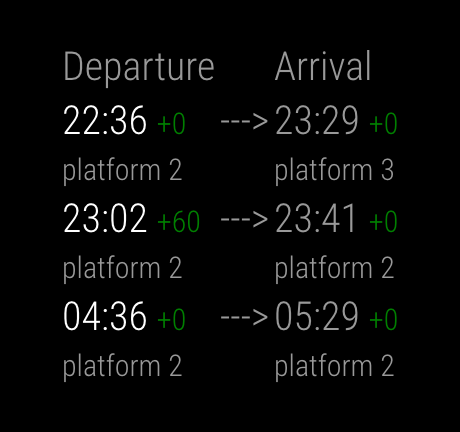
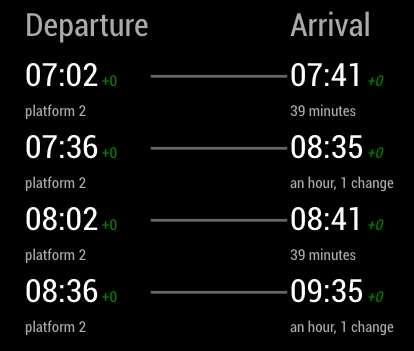
Added French language

diff --git a/MMM-NMBS-Connection.js b/MMM-NMBS-Connection.js
@@ -59,8 +59,21 @@ Module.register("MMM-NMBS-Connection", {
 			.catch(error => Log.error("Fetch Error =\n", error));
 	},
 	processConnections: function (data) {
-		const wrapper = document.createElement("div");
-		let connectionList = `<table class="normal small light"><thead><tr><td>${this.translate("DEPARTURE")}</td><td></td><td>${this.translate("ARRIVAL")}</td></tr></thead><tbody>`;
+		let table = document.createElement("table");
+		let tHead = document.createElement("thead");
+		let headerRow = document.createElement("tr");
+		let headerDeparture = document.createElement("td");
+		headerDeparture.innerHTML = this.translate("DEPARTURE");
+		let headerLine = document.createElement("td");
+		let headerArrival = document.createElement("td");
+		headerArrival.innerHTML = this.translate("ARRIVAL");
+
+		headerRow.appendChild(headerDeparture);
+		headerRow.appendChild(headerLine);
+		headerRow.appendChild(headerArrival);
+		tHead.appendChild(headerRow);
+		table.appendChild(tHead);
+
 		let connections = data.connection;
 
 		if (!Number.isFinite(this.config.results) || this.config.results > 6) {
@@ -69,14 +82,58 @@ Module.register("MMM-NMBS-Connection", {
 
 		for (let i = 0; i < this.config.results; i++) {
 			let connection = connections[i];
-			connectionList+= `<tr><td class="title bright">${moment.unix(connection.departure.time).format("HH:mm")} <span class=\"xsmall ontime\">+${connection.departure.delay}</span></td><td> ---> </td><td>${moment.unix(connection.arrival.time).format("HH:mm")} <span class=\"xsmall ontime\">+${connection.arrival.delay}</span> </td></tr>`
-			connectionList+= `<tr><td class="xsmall">${this.translate("PLATFORM")} ${connection.departure.platform} </td><td></td><td class="xsmall">${this.translate("PLATFORM")} ${connection.arrival.platform}</td></tr>`
+			Log.info(connection);
+			let connectionRow = document.createElement("tr");
+
+			let departureTime = document.createElement("td");
+			departureTime.className = "title bright";
+			departureTime.innerHTML = moment.unix(connection.departure.time).format("HH:mm");
+			let departureDelay = document.createElement("span");
+			departureDelay.className = "xsmall ontime";
+			departureDelay.innerHTML = ` +${moment.utc(connection.departure.delay *1000).format("m")}`;
+			departureTime.appendChild(departureDelay);
+			connectionRow.appendChild(departureTime);
+
+			let line = document.createElement("td");
+			line.className = "dimmed";
+			let trainIcon = document.createElement("span");
+			trainIcon.className = "fas fa-train";
+			line.innerHTML = "&boxh;&boxh;&boxh;&boxh;&boxh;&boxh; ";
+			line.appendChild(trainIcon);
+			connectionRow.appendChild(line);
+
+			let arrivalTime = document.createElement("td");
+			arrivalTime.className = "title bright";
+			arrivalTime.innerHTML = moment.unix(connection.arrival.time).format("HH:mm");
+			let arrivalDelay = document.createElement("i");
+			arrivalDelay.className = "xsmall ontime";
+			arrivalDelay.innerHTML = ` +${moment.utc(connection.arrival.delay *1000).format("m")}`;
+			arrivalTime.appendChild(arrivalDelay);
+			connectionRow.appendChild(arrivalTime);
+
+			let infoRow = document.createElement("tr");
+			let departurePlatform = document.createElement("td");
+			departurePlatform.className = "xsmall";
+			departurePlatform.innerHTML = `${this.translate("PLATFORM")} ${connection.departure.platform}`;
+			infoRow.appendChild(departurePlatform);
+
+			let emptyLine = document.createElement("td");
+			infoRow.appendChild(emptyLine);
+
+			let duration = document.createElement("td");
+			duration.className = "xsmall";
+			duration.innerHTML = `${moment.duration(connection.duration * 1000).humanize()}`;
+
+			if (connection.vias && parseInt(connection.vias.number,10) > 0) {
+				duration.innerHTML += `, ${connection.vias.number} ${this.translate("CHANGE")}`;
+			}
+
+			infoRow.appendChild(duration);
+			table.appendChild(connectionRow);
+			table.appendChild(infoRow);
 		}
 
-		connectionList+= "</tbody></table>";
-		wrapper.innerHTML = connectionList;
-
-		this.forecast = wrapper;
+		this.forecast = table;
 
 		this.show(this.config.animationSpeed, { lockString: this.identifier });
 		this.loaded = true;
